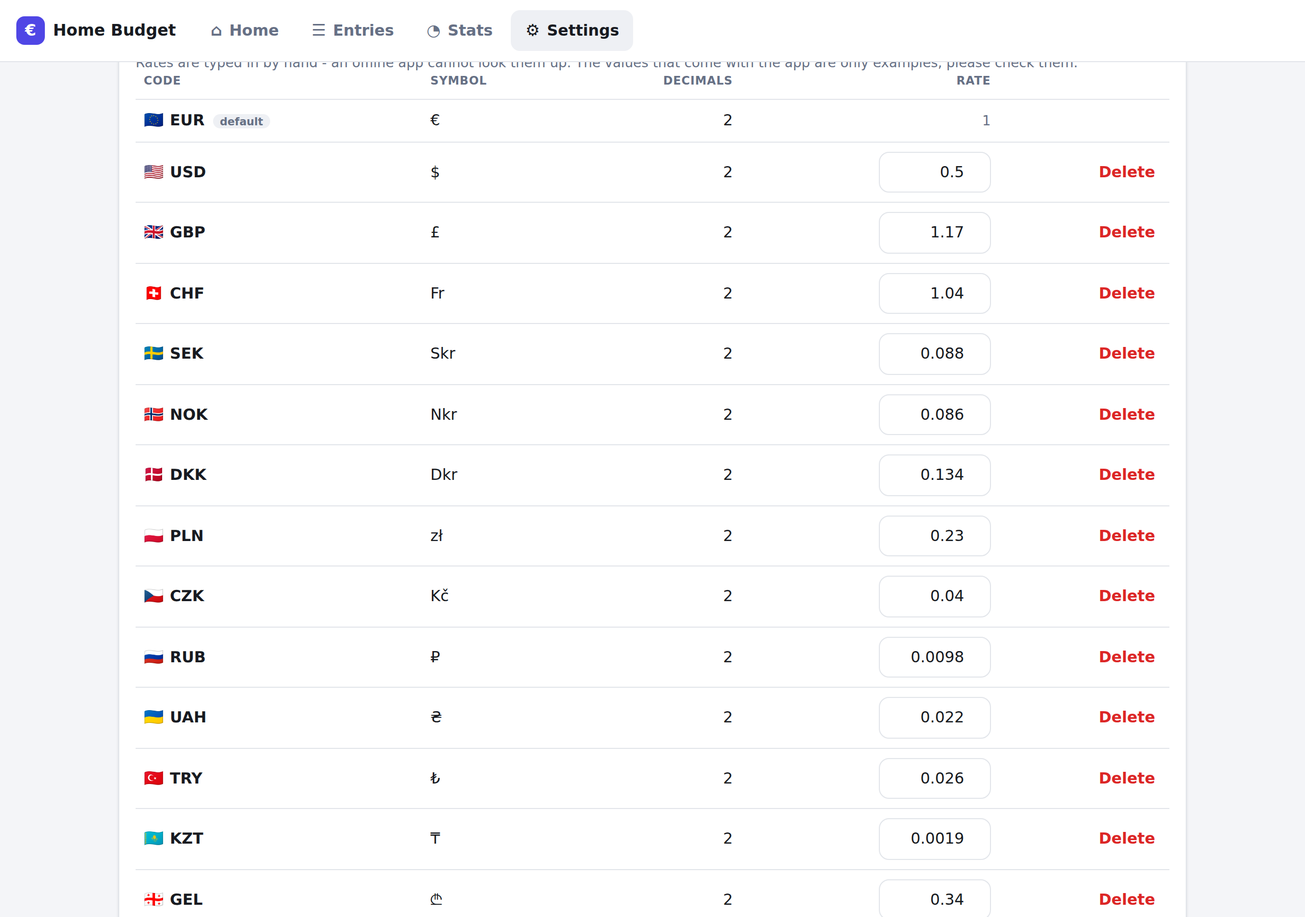
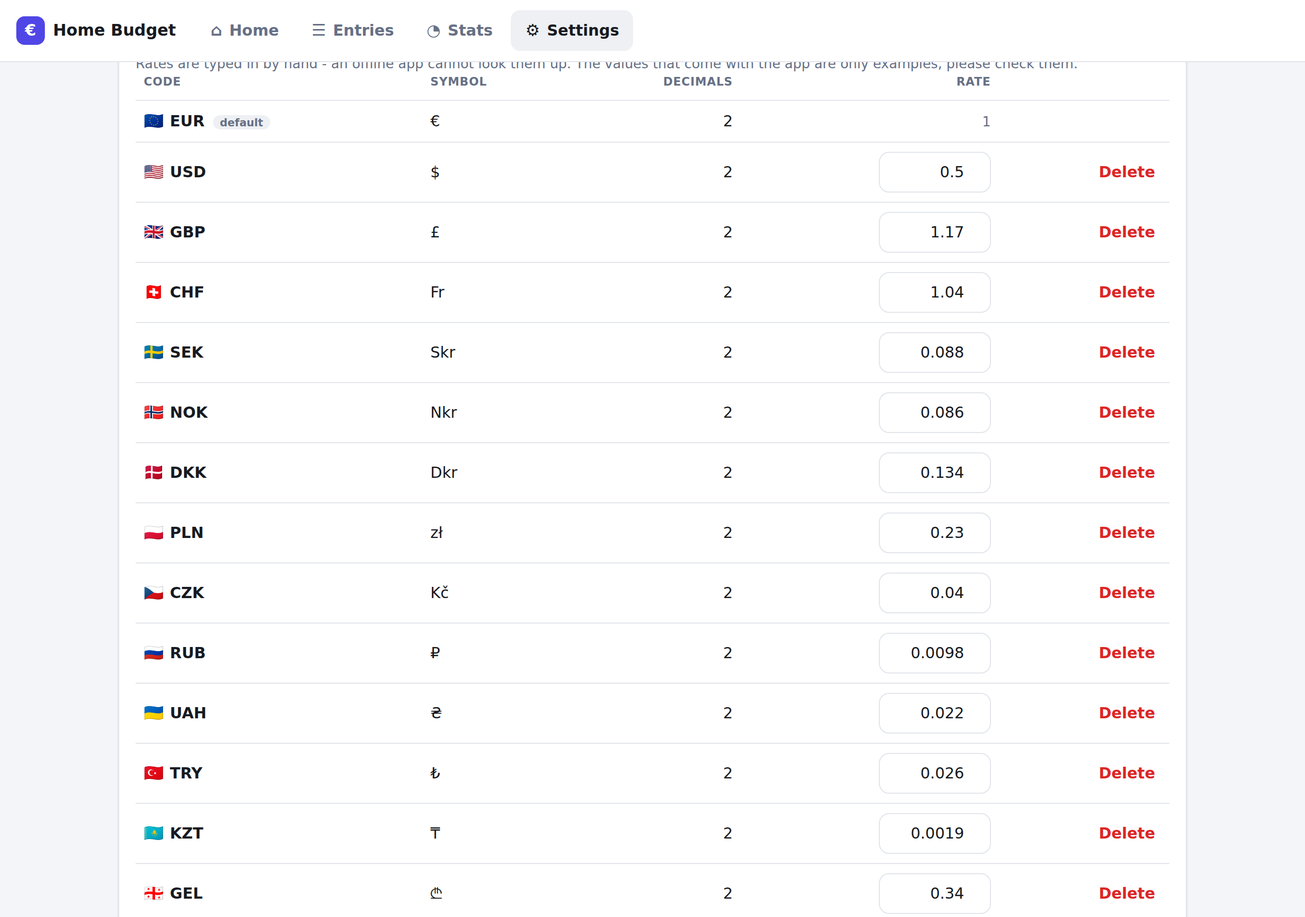
version 3.2.1

diff --git a/site/index.html b/site/index.html
@@ -6,10 +6,10 @@
 <meta name="color-scheme" content="light dark">
 <meta name="description" content="Offline home budget: entries, categories, statistics, CSV/XLSX/PDF export and import.">
 <meta name="application-name" content="Home Budget">
-<meta name="application-version" content="3.2.0">
-<meta name="generator" content="Home Budget 3.2.0">
+<meta name="application-version" content="3.2.1">
+<meta name="generator" content="Home Budget 3.2.1">
 <meta name="robots" content="index, follow">
-<title>Home Budget 3.2.0</title>
+<title>Home Budget 3.2.1</title>
 
 <!-- The file never changes once it is built: its name carries the version, so any
      copy of it can be kept forever. Servers should send the same rule as a header;
@@ -38,13 +38,13 @@ if ('serviceWorker' in navigator) {
   addEventListener('load', () => navigator.serviceWorker.register('sw.js').catch(() => {}));
 }
 </script>
-<style>/*! Home Budget 3.2.0 */
-:root{--bg:#f4f5f8;--surface:#ffffff;--surface-2:#eef0f4;--border:#e2e5ea;--text:#171a21;--muted:#667085;--accent:#4f46e5;--accent-text:#ffffff;--income:#15803d;--expense:#c2410c;--danger:#dc2626;--warn:#b45309;--bar-expense:#f97316;--bar-income:#22c55e;--radius:14px;--shadow:0 1px 2px rgba(16,24,40,.06),0 1px 3px rgba(16,24,40,.06);color-scheme:light}body.dark{--bg:#0f1116;--surface:#171a21;--surface-2:#1f232c;--border:#2a2f3a;--text:#e7e9ee;--muted:#98a2b3;--accent:#818cf8;--accent-text:#0f1116;--income:#4ade80;--expense:#fb923c;--danger:#f87171;--warn:#fbbf24;--shadow:none;color-scheme:dark}*{box-sizing:border-box}html,body{margin:0;padding:0;background:var(--bg);color:var(--text);font:15px/1.5 system-ui,-apple-system,"Segoe UI",Roboto,sans-serif;-webkit-text-size-adjust:100%}h1,h2,h3{margin:0;font-size:1rem}h2{font-size:1.05rem}p{margin:0}button,input,select{font:inherit;color:inherit}.muted{color:var(--muted);font-size:.88rem}.block{display:block}.num{text-align:right;font-variant-numeric:tabular-nums;white-space:nowrap}.income{color:var(--income)}.expense{color:var(--expense)}.error{color:var(--danger);margin-top:6px}.warning{color:var(--warn)}.spacer{flex:1}.app-bar{position:sticky;top:0;z-index:20;display:flex;align-items:center;gap:20px;padding:10px 16px;background:var(--surface);border-bottom:1px solid var(--border)}.brand{display:flex;align-items:center;gap:8px;font-size:1.05rem}.logo{display:grid;place-items:center;width:28px;height:28px;border-radius:8px;background:var(--accent);color:var(--accent-text);font-weight:700}.tabs{display:flex;gap:4px}.tab{display:flex;align-items:center;gap:7px;padding:8px 14px;border:0;border-radius:9px;background:transparent;color:var(--muted);font-weight:600;cursor:pointer}.tab:hover{background:var(--surface-2);color:var(--text)}.tab.active{background:var(--surface-2);color:var(--text)}.tab-icon{font-size:1.05rem}.main{max-width:1080px;margin:0 auto;padding:18px 16px 40px;display:flex;flex-direction:column;gap:16px}.app-footer{padding:0 16px 28px;text-align:center;color:var(--muted);font-size:.8rem}.toast{max-width:1080px;margin:12px auto -4px;padding:10px 14px;border-radius:10px;background:color-mix(in srgb,var(--income) 14%,transparent);color:var(--income);font-weight:600}.toast.error{background:color-mix(in srgb,var(--danger) 14%,transparent);color:var(--danger)}.card{background:var(--surface);border:1px solid var(--border);border-radius:var(--radius);box-shadow:var(--shadow);padding:16px}.card-head{display:flex;align-items:center;justify-content:space-between;gap:12px;margin-bottom:12px;flex-wrap:wrap}.cards{display:grid;grid-template-columns:repeat(auto-fit,minmax(160px,1fr));gap:12px}.grid{display:grid;grid-template-columns:1.3fr 1fr;gap:16px}.stat{display:flex;flex-direction:column;gap:2px}.stat-title{color:var(--muted);font-weight:600;font-size:.85rem}.stat-value{font-size:1.45rem;font-variant-numeric:tabular-nums}.stat-sub{color:var(--muted);font-size:.78rem}.quick-card{padding-bottom:12px}.quick-form{display:flex;gap:10px;align-items:stretch}.quick-input-wrap{position:relative;flex:1}.quick-input{width:100%;padding:14px 44px 14px 14px;font-size:1.5rem;font-variant-numeric:tabular-nums;border:1px solid var(--border);border-radius:12px;background:var(--surface-2)}.quick-currency{position:absolute;right:14px;top:50%;transform:translateY(-50%);color:var(--muted);font-size:1.1rem}.quick-message{margin-top:8px;font-size:.88rem;min-height:1.2em;color:var(--muted)}.quick-message.ok{color:var(--income)}.quick-message.error{color:var(--danger)}button{padding:9px 14px;border:1px solid var(--border);border-radius:10px;background:var(--surface);font-weight:600;cursor:pointer}button:hover{background:var(--surface-2)}button:disabled{opacity:.5;cursor:not-allowed}button.primary{background:var(--accent);border-color:var(--accent);color:var(--accent-text)}button.primary:hover{filter:brightness(1.08)}button.danger{color:var(--danger)}button.link{border:0;background:none;padding:4px 6px;color:var(--accent);font-weight:600}button.link.danger{color:var(--danger)}.button-row{display:flex;flex-wrap:wrap;gap:8px;align-items:center}.file-button{display:inline-flex;align-items:center;padding:9px 14px;border:1px solid var(--border);border-radius:10px;font-weight:600;cursor:pointer;background:var(--surface)}.segmented{display:inline-flex;border:1px solid var(--border);border-radius:10px;overflow:hidden}.segmented button{border:0;border-radius:0;background:var(--surface);padding:7px 12px;color:var(--muted)}.segmented button.active{background:var(--surface-2);color:var(--text)}input,select{padding:8px 10px;border:1px solid var(--border);border-radius:10px;background:var(--surface);max-width:100%}input[type="color"]{padding:2px;width:48px;height:36px}input:focus-visible,select:focus-visible,button:focus-visible{outline:2px solid var(--accent);outline-offset:1px}.field{display:flex;flex-direction:column;gap:4px}.field-label{color:var(--muted);font-size:.8rem;font-weight:600}.field-hint{color:var(--muted);font-size:.75rem}.filters{display:flex;flex-wrap:wrap;gap:12px;align-items:flex-end}.filters-box{margin-bottom:4px}.filters-box>summary{cursor:pointer;color:var(--muted);font-weight:600;font-size:.85rem;padding:4px 0}.filters-box[open]>summary{margin-bottom:8px}.entry-row{cursor:pointer}.filter-actions{display:flex;gap:8px}.inline-form{display:flex;flex-wrap:wrap;gap:34px 10px;align-items:flex-end;margin-top:12px;padding-bottom:14px}.inline-form .field{position:relative}.inline-form .field.has-hint{min-width:160px}.inline-form .field-hint{position:absolute;top:calc(100% + 3px);left:0;width:100%;line-height:1.25}.summary{display:flex;flex-wrap:wrap;gap:16px;margin:12px 0;font-size:.9rem;font-weight:600}.table-wrap{overflow-x:auto}table{width:100%;border-collapse:collapse}th{text-align:left;font-size:.75rem;text-transform:uppercase;letter-spacing:.04em;color:var(--muted);padding:0 8px 8px;border-bottom:1px solid var(--border)}th.num{text-align:right}td{padding:9px 8px;border-bottom:1px solid var(--border);vertical-align:middle}tbody tr:hover{background:var(--surface-2)}tbody tr:last-child td{border-bottom:0}.row-actions{white-space:nowrap;text-align:right}.category-icon{font-size:1.05em;margin-right:7px;line-height:1}.currency-flag{font-size:1.05em;margin-right:6px;line-height:1}.legend-icon{font-size:1em}.small{font-size:.78rem}.row-2{display:grid;grid-template-columns:auto 1fr;gap:12px;align-items:end}.icon-input{width:64px;font-size:1.2rem;text-align:center}.rate-input{width:110px;text-align:right}.converted-note{margin-top:-6px}.app-version{opacity:.8}.icon-picker{display:flex;flex-wrap:wrap;gap:4px}.icon-choice{padding:4px 7px;font-size:1.05rem;border-radius:8px}.card-summary{font-weight:700;font-size:1.05rem;cursor:pointer}.translation-table{max-height:320px;overflow:auto}.translation-table input{width:100%}.fill.over{background:var(--danger) !important}.badge.over{background:color-mix(in srgb,var(--danger) 16%,transparent);color:var(--danger)}.dot{display:inline-block;width:10px;height:10px;margin-right:8px;border-radius:50%;vertical-align:baseline}.badge{margin-left:8px;padding:1px 7px;border-radius:99px;background:var(--surface-2);color:var(--muted);font-size:.7rem;font-weight:700}.chips{display:flex;flex-wrap:wrap;gap:8px;margin:0;padding:0;list-style:none}.chip{display:inline-flex;align-items:center;gap:4px;padding:6px 10px;border:1px solid var(--border);border-radius:99px;background:var(--surface-2)}.entry-list{list-style:none;margin:0;padding:0;display:flex;flex-direction:column}.entry{display:flex;align-items:center;gap:10px;padding:10px 4px;border-bottom:1px solid var(--border);cursor:pointer}.entry:last-child{border-bottom:0}.entry:hover{background:var(--surface-2)}.entry-main{display:flex;flex-direction:column;flex:1;min-width:0}.entry-title{font-weight:600;overflow:hidden;text-overflow:ellipsis;white-space:nowrap}.entry-sub{color:var(--muted);font-size:.8rem}.entry-amount{font-weight:700;font-variant-numeric:tabular-nums}.facts{margin:0;padding-left:18px;color:var(--muted);display:flex;flex-direction:column;gap:6px}.bar-list{list-style:none;margin:0;padding:0;display:flex;flex-direction:column;gap:12px}.bar-head{display:flex;justify-content:space-between;gap:10px;font-size:.9rem;margin-bottom:5px}.track{height:8px;border-radius:99px;background:var(--surface-2);overflow:hidden}.fill{height:100%;border-radius:99px}.chart-box{width:100%;height:220px}.chart-box.tall{height:280px}.chart{width:100%;height:100%;display:block}.bar-expense{fill:var(--bar-expense)}.bar-income{fill:var(--bar-income)}.grid{stroke:var(--border);stroke-width:1}svg .grid{fill:none}.chart-label{fill:var(--muted);font-size:10px}.donut-empty{fill:none;stroke:var(--surface-2);stroke-width:26}.donut-box{display:flex;gap:14px;align-items:center;flex-wrap:wrap}.donut{width:160px;height:160px;flex:none}.legend{display:flex;gap:14px;margin-top:8px;color:var(--muted);font-size:.8rem;align-items:center}.toggle{display:inline-flex;align-items:center;gap:5px;cursor:pointer}.toggle input{width:14px;height:14px}.chart-scale{fill:var(--muted);font-size:10px}.average-line{stroke:var(--accent);stroke-width:1.5;stroke-dasharray:5 4}.average-label{fill:var(--accent);font-size:10px;font-weight:600}.key::before{content:"";display:inline-block;width:10px;height:10px;margin-right:6px;border-radius:3px;background:var(--bar-expense)}.key.income::before{background:var(--bar-income)}.legend-list{list-style:none;margin:0;padding:0;flex:1;min-width:160px}.legend-list li{display:flex;align-items:center;gap:6px;padding:3px 0;font-size:.88rem}.legend-name{flex:1;overflow:hidden;text-overflow:ellipsis;white-space:nowrap}.legend-value{color:var(--muted);font-variant-numeric:tabular-nums}.transfer{display:grid;grid-template-columns:1fr 1fr;gap:16px}.transfer-block{display:flex;flex-direction:column;gap:8px}.transfer-block h3{font-size:.95rem}.import-preview{margin-top:16px;padding-top:16px;border-top:1px solid var(--border);display:flex;flex-direction:column;gap:10px}.dialog{width:min(440px,calc(100vw - 32px));border:1px solid var(--border);border-radius:var(--radius);background:var(--surface);color:var(--text);padding:16px}.dialog::backdrop{background:rgba(15,17,22,.45)}.dialog-head{display:flex;justify-content:space-between;align-items:center;margin-bottom:12px}.dialog-form{display:flex;flex-direction:column;gap:12px}.dialog-actions{display:flex;gap:8px;align-items:center;margin-top:4px}@media (max-width:720px){body[data-mode="auto"] .tab-label{display:none}body[data-mode="auto"] .grid,body[data-mode="auto"] .transfer{grid-template-columns:1fr}body[data-mode="auto"] .app-bar{gap:10px}body[data-mode="auto"] .hide-sm,body[data-mode="auto"] .row-actions{display:none}body[data-mode="auto"] .main{padding:14px 12px 32px}}body[data-mode="mobile"] .tab-label{display:none}body[data-mode="mobile"] .grid,body[data-mode="mobile"] .transfer{grid-template-columns:1fr}body[data-mode="mobile"] .hide-sm,body[data-mode="mobile"] .row-actions{display:none}body[data-mode="mobile"] .main{max-width:560px;padding:14px 12px 32px}body[data-mode="mobile"] .cards{grid-template-columns:repeat(2,1fr)}body[data-mode="mobile"] .app-bar{position:sticky}body[data-mode="mobile"] .tabs{flex:1;justify-content:space-around}body[data-mode="desktop"] .main{max-width:1080px}body[data-mode="desktop"] .grid{grid-template-columns:1.3fr 1fr}</style>
+<style>/*! Home Budget 3.2.1 */
+:root{--bg:#f4f5f8;--surface:#ffffff;--surface-2:#eef0f4;--border:#e2e5ea;--text:#171a21;--muted:#667085;--accent:#4f46e5;--accent-text:#ffffff;--income:#15803d;--expense:#c2410c;--danger:#dc2626;--warn:#b45309;--bar-expense:#f97316;--bar-income:#22c55e;--radius:14px;--control-height:40px;--label-height:18px;--shadow:0 1px 2px rgba(16,24,40,.06),0 1px 3px rgba(16,24,40,.06);color-scheme:light}body.dark{--bg:#0f1116;--surface:#171a21;--surface-2:#1f232c;--border:#2a2f3a;--text:#e7e9ee;--muted:#98a2b3;--accent:#818cf8;--accent-text:#0f1116;--income:#4ade80;--expense:#fb923c;--danger:#f87171;--warn:#fbbf24;--shadow:none;color-scheme:dark}*{box-sizing:border-box}html,body{margin:0;padding:0;background:var(--bg);color:var(--text);font:15px/1.5 system-ui,-apple-system,"Segoe UI",Roboto,sans-serif;-webkit-text-size-adjust:100%}h1,h2,h3{margin:0;font-size:1rem}h2{font-size:1.05rem}p{margin:0}button,input,select{font:inherit;color:inherit}.muted{color:var(--muted);font-size:.88rem}.block{display:block}.num{text-align:right;font-variant-numeric:tabular-nums;white-space:nowrap}.income{color:var(--income)}.expense{color:var(--expense)}.error{color:var(--danger);margin-top:6px}.warning{color:var(--warn)}.spacer{flex:1}.app-bar{position:sticky;top:0;z-index:20;display:flex;align-items:center;gap:20px;padding:10px 16px;background:var(--surface);border-bottom:1px solid var(--border)}.brand{display:flex;align-items:center;gap:8px;font-size:1.05rem}.logo{display:grid;place-items:center;width:28px;height:28px;border-radius:8px;background:var(--accent);color:var(--accent-text);font-weight:700}.tabs{display:flex;gap:4px}.tab{display:flex;align-items:center;gap:7px;padding:8px 14px;border:0;border-radius:9px;background:transparent;color:var(--muted);font-weight:600;cursor:pointer}.tab:hover{background:var(--surface-2);color:var(--text)}.tab.active{background:var(--surface-2);color:var(--text)}.tab-icon{font-size:1.05rem}.main{max-width:1080px;margin:0 auto;padding:18px 16px 40px;display:flex;flex-direction:column;gap:16px}.app-footer{padding:0 16px 28px;text-align:center;color:var(--muted);font-size:.8rem}.toast{max-width:1080px;margin:12px auto -4px;padding:10px 14px;border-radius:10px;background:color-mix(in srgb,var(--income) 14%,transparent);color:var(--income);font-weight:600}.toast.error{background:color-mix(in srgb,var(--danger) 14%,transparent);color:var(--danger)}.card{background:var(--surface);border:1px solid var(--border);border-radius:var(--radius);box-shadow:var(--shadow);padding:16px}.card-head{display:flex;align-items:center;justify-content:space-between;gap:12px;margin-bottom:12px;flex-wrap:wrap}.cards{display:grid;grid-template-columns:repeat(auto-fit,minmax(160px,1fr));gap:12px}.grid{display:grid;grid-template-columns:1.3fr 1fr;gap:16px}.stat{display:flex;flex-direction:column;gap:2px}.stat-title{color:var(--muted);font-weight:600;font-size:.85rem}.stat-value{font-size:1.45rem;font-variant-numeric:tabular-nums}.stat-sub{color:var(--muted);font-size:.78rem}.quick-card{padding-bottom:12px}.quick-form{display:flex;gap:10px;align-items:stretch}.quick-input-wrap{position:relative;flex:1}.quick-input{width:100%;height:auto;padding:14px 44px 14px 14px;font-size:1.5rem;font-variant-numeric:tabular-nums;border:1px solid var(--border);border-radius:12px;background:var(--surface-2)}.quick-currency{position:absolute;right:14px;top:50%;transform:translateY(-50%);color:var(--muted);font-size:1.1rem}.quick-message{margin-top:8px;font-size:.88rem;min-height:1.2em;color:var(--muted)}.quick-message.ok{color:var(--income)}.quick-message.error{color:var(--danger)}button{padding:9px 14px;border:1px solid var(--border);border-radius:10px;background:var(--surface);font-weight:600;cursor:pointer}button:hover{background:var(--surface-2)}button:disabled{opacity:.5;cursor:not-allowed}button.primary{background:var(--accent);border-color:var(--accent);color:var(--accent-text)}button.primary:hover{filter:brightness(1.08)}button.danger{color:var(--danger)}button.link{border:0;background:none;padding:4px 6px;color:var(--accent);font-weight:600}button.link.danger{color:var(--danger)}.button-row{display:flex;flex-wrap:wrap;gap:8px;align-items:center}.file-button{display:inline-flex;align-items:center;padding:9px 14px;border:1px solid var(--border);border-radius:10px;font-weight:600;cursor:pointer;background:var(--surface)}.segmented{display:inline-flex;border:1px solid var(--border);border-radius:10px;overflow:hidden}.segmented button{border:0;border-radius:0;background:var(--surface);padding:7px 12px;color:var(--muted)}.segmented button.active{background:var(--surface-2);color:var(--text)}input,select{box-sizing:border-box;height:var(--control-height);padding:8px 10px;border:1px solid var(--border);border-radius:10px;background:var(--surface);max-width:100%}input[type="checkbox"],input[type="radio"]{height:auto}input[type="color"]{padding:2px;width:48px}input:focus-visible,select:focus-visible,button:focus-visible{outline:2px solid var(--accent);outline-offset:1px}.field{display:flex;flex-direction:column;gap:4px}.field-label{color:var(--muted);font-size:.8rem;font-weight:600;min-height:var(--label-height);line-height:var(--label-height)}.field-hint{color:var(--muted);font-size:.75rem;line-height:1.3;max-width:240px}.filters{display:flex;flex-wrap:wrap;gap:12px;align-items:start}.filters-box{margin-bottom:4px}.filters-box>summary{cursor:pointer;color:var(--muted);font-weight:600;font-size:.85rem;padding:4px 0}.filters-box[open]>summary{margin-bottom:8px}.entry-row{cursor:pointer}.filter-actions{display:flex;gap:8px;margin-top:calc(var(--label-height) + 4px)}.inline-form{display:flex;flex-wrap:wrap;gap:12px 10px;align-items:start;margin-top:12px}.inline-form>button{margin-top:calc(var(--label-height) + 4px)}.inline-form>button,.filters button,.button-row>button,.file-button{height:var(--control-height)}.summary{display:flex;flex-wrap:wrap;gap:16px;margin:12px 0;font-size:.9rem;font-weight:600}.table-wrap{overflow-x:auto}table{width:100%;border-collapse:collapse}th{text-align:left;font-size:.75rem;text-transform:uppercase;letter-spacing:.04em;color:var(--muted);padding:0 8px 8px;border-bottom:1px solid var(--border)}th.num{text-align:right}td{padding:9px 8px;border-bottom:1px solid var(--border);vertical-align:middle}tbody tr:hover{background:var(--surface-2)}tbody tr:last-child td{border-bottom:0}.row-actions{white-space:nowrap;text-align:right}.category-icon{font-size:1.05em;margin-right:7px;line-height:1}.currency-flag{font-size:1.05em;margin-right:6px;line-height:1}.legend-icon{font-size:1em}.small{font-size:.78rem}.row-2{display:grid;grid-template-columns:auto 1fr;gap:12px;align-items:start}.icon-input{width:64px;font-size:1.2rem;text-align:center}.rate-input{width:110px;text-align:right}.converted-note{margin-top:-6px}.app-version{opacity:.8}.icon-picker{display:flex;flex-wrap:wrap;gap:4px}.icon-choice{padding:4px 7px;font-size:1.05rem;border-radius:8px}.card-summary{font-weight:700;font-size:1.05rem;cursor:pointer}.translation-table{max-height:320px;overflow:auto}.translation-table input{width:100%}.fill.over{background:var(--danger) !important}.badge.over{background:color-mix(in srgb,var(--danger) 16%,transparent);color:var(--danger)}.dot{display:inline-block;width:10px;height:10px;margin-right:8px;border-radius:50%;vertical-align:baseline}.badge{margin-left:8px;padding:1px 7px;border-radius:99px;background:var(--surface-2);color:var(--muted);font-size:.7rem;font-weight:700}.chips{display:flex;flex-wrap:wrap;gap:8px;margin:0;padding:0;list-style:none}.chip{display:inline-flex;align-items:center;gap:4px;padding:6px 10px;border:1px solid var(--border);border-radius:99px;background:var(--surface-2)}.entry-list{list-style:none;margin:0;padding:0;display:flex;flex-direction:column}.entry{display:flex;align-items:center;gap:10px;padding:10px 4px;border-bottom:1px solid var(--border);cursor:pointer}.entry:last-child{border-bottom:0}.entry:hover{background:var(--surface-2)}.entry-main{display:flex;flex-direction:column;flex:1;min-width:0}.entry-title{font-weight:600;overflow:hidden;text-overflow:ellipsis;white-space:nowrap}.entry-sub{color:var(--muted);font-size:.8rem}.entry-amount{font-weight:700;font-variant-numeric:tabular-nums}.facts{margin:0;padding-left:18px;color:var(--muted);display:flex;flex-direction:column;gap:6px}.bar-list{list-style:none;margin:0;padding:0;display:flex;flex-direction:column;gap:12px}.bar-head{display:flex;justify-content:space-between;gap:10px;font-size:.9rem;margin-bottom:5px}.track{height:8px;border-radius:99px;background:var(--surface-2);overflow:hidden}.fill{height:100%;border-radius:99px}.chart-box{width:100%;height:220px}.chart-box.tall{height:280px}.chart{width:100%;height:100%;display:block}.bar-expense{fill:var(--bar-expense)}.bar-income{fill:var(--bar-income)}.grid{stroke:var(--border);stroke-width:1}svg .grid{fill:none}.chart-label{fill:var(--muted);font-size:10px}.donut-empty{fill:none;stroke:var(--surface-2);stroke-width:26}.donut-box{display:flex;gap:14px;align-items:center;flex-wrap:wrap}.donut{width:160px;height:160px;flex:none}.legend{display:flex;gap:14px;margin-top:8px;color:var(--muted);font-size:.8rem;align-items:center}.toggle{display:inline-flex;align-items:center;gap:5px;cursor:pointer}.toggle input{width:14px;height:14px}.chart-scale{fill:var(--muted);font-size:10px}.average-line{stroke:var(--accent);stroke-width:1.5;stroke-dasharray:5 4}.average-label{fill:var(--accent);font-size:10px;font-weight:600}.key::before{content:"";display:inline-block;width:10px;height:10px;margin-right:6px;border-radius:3px;background:var(--bar-expense)}.key.income::before{background:var(--bar-income)}.legend-list{list-style:none;margin:0;padding:0;flex:1;min-width:160px}.legend-list li{display:flex;align-items:center;gap:6px;padding:3px 0;font-size:.88rem}.legend-name{flex:1;overflow:hidden;text-overflow:ellipsis;white-space:nowrap}.legend-value{color:var(--muted);font-variant-numeric:tabular-nums}.transfer{display:grid;grid-template-columns:1fr 1fr;gap:16px}.transfer-block{display:flex;flex-direction:column;gap:8px}.transfer-block h3{font-size:.95rem}.import-preview{margin-top:16px;padding-top:16px;border-top:1px solid var(--border);display:flex;flex-direction:column;gap:10px}.dialog{width:min(440px,calc(100vw - 32px));border:1px solid var(--border);border-radius:var(--radius);background:var(--surface);color:var(--text);padding:16px}.dialog::backdrop{background:rgba(15,17,22,.45)}.dialog-head{display:flex;justify-content:space-between;align-items:center;margin-bottom:12px}.dialog-form{display:flex;flex-direction:column;gap:12px}.dialog-actions{display:flex;gap:8px;align-items:center;margin-top:4px}@media (max-width:720px){body[data-mode="auto"] .tab-label{display:none}body[data-mode="auto"] .grid,body[data-mode="auto"] .transfer{grid-template-columns:1fr}body[data-mode="auto"] .app-bar{gap:10px}body[data-mode="auto"] .hide-sm,body[data-mode="auto"] .row-actions{display:none}body[data-mode="auto"] .main{padding:14px 12px 32px}}body[data-mode="mobile"] .tab-label{display:none}body[data-mode="mobile"] .grid,body[data-mode="mobile"] .transfer{grid-template-columns:1fr}body[data-mode="mobile"] .hide-sm,body[data-mode="mobile"] .row-actions{display:none}body[data-mode="mobile"] .main{max-width:560px;padding:14px 12px 32px}body[data-mode="mobile"] .cards{grid-template-columns:repeat(2,1fr)}body[data-mode="mobile"] .app-bar{position:sticky}body[data-mode="mobile"] .tabs{flex:1;justify-content:space-around}body[data-mode="desktop"] .main{max-width:1080px}body[data-mode="desktop"] .grid{grid-template-columns:1.3fr 1fr}</style>
 </head>
 <body data-mode="auto">
 <div id="app"></div>
 <noscript>This app needs JavaScript. Everything runs locally in your browser; nothing is sent anywhere.</noscript>
-<script>/*! Home Budget 3.2.0 - offline single file build, https://github.com/ (no dependencies) */
+<script>/*! Home Budget 3.2.1 - offline single file build, https://github.com/ (no dependencies) */
 (function () {
 'use strict';
 const __cache = {};
@@ -987,7 +987,7 @@ return `${day}.${month}.${year}`;
 return { formatMoney, toPlainAmount, parseAmount, todayIso, toIsoDate, isIsoDate, parseDateLoose, addDays, addMonths, startOfWeek, isoWeek, periodKey, periodStart, periodEnd, previousPeriodStart, periodLabel, formatDate, GROUP_SEPARATOR, PERIODS, MONTH_NAMES, PERIOD_TEXTS };
 };
 __modules["core/version.js"] = function () {
-const APP_VERSION = '3.2.0';
+const APP_VERSION = '3.2.1';
 const DATA_VERSION = 3;
 return { APP_VERSION, DATA_VERSION };
 };

diff --git a/src/app.css b/src/app.css
@@ -16,6 +16,10 @@
   --bar-expense: #f97316;
   --bar-income: #22c55e;
   --radius: 14px;
+  /* Every control in a form row is exactly this tall, and every field label exactly
+     that high, so controls next to each other always sit on the same line. */
+  --control-height: 40px;
+  --label-height: 18px;
   --shadow: 0 1px 2px rgba(16, 24, 40, .06), 0 1px 3px rgba(16, 24, 40, .06);
   color-scheme: light;
 }
@@ -163,6 +167,7 @@ button, input, select { font: inherit; color: inherit; }
 .quick-input-wrap { position: relative; flex: 1; }
 .quick-input {
   width: 100%;
+  height: auto; /* the quick amount field is deliberately bigger than a form control */
   padding: 14px 44px 14px 14px;
   font-size: 1.5rem;
   font-variant-numeric: tabular-nums;
@@ -220,34 +225,41 @@ button.link.danger { color: var(--danger); }
 .segmented button.active { background: var(--surface-2); color: var(--text); }
 
 input, select {
+  box-sizing: border-box;
+  height: var(--control-height);
   padding: 8px 10px;
   border: 1px solid var(--border);
   border-radius: 10px;
   background: var(--surface);
   max-width: 100%;
 }
-input[type="color"] { padding: 2px; width: 48px; height: 36px; }
+/* Checkboxes keep their own size; only the text-like controls share a height. */
+input[type="checkbox"], input[type="radio"] { height: auto; }
+input[type="color"] { padding: 2px; width: 48px; }
 input:focus-visible, select:focus-visible, button:focus-visible {
   outline: 2px solid var(--accent);
   outline-offset: 1px;
 }
 
 .field { display: flex; flex-direction: column; gap: 4px; }
-.field-label { color: var(--muted); font-size: .8rem; font-weight: 600; }
-.field-hint { color: var(--muted); font-size: .75rem; }
-.filters { display: flex; flex-wrap: wrap; gap: 12px; align-items: flex-end; }
+/* A fixed label height plus top alignment is what keeps a row of fields lined up:
+   a longer label, or a hint under one of them, then moves nothing else. */
+.field-label {
+  color: var(--muted); font-size: .8rem; font-weight: 600;
+  min-height: var(--label-height); line-height: var(--label-height);
+}
+.field-hint { color: var(--muted); font-size: .75rem; line-height: 1.3; max-width: 240px; }
+.filters { display: flex; flex-wrap: wrap; gap: 12px; align-items: start; }
 .filters-box { margin-bottom: 4px; }
 .filters-box > summary { cursor: pointer; color: var(--muted); font-weight: 600; font-size: .85rem; padding: 4px 0; }
 .filters-box[open] > summary { margin-bottom: 8px; }
 .entry-row { cursor: pointer; }
-.filter-actions { display: flex; gap: 8px; }
-.inline-form { display: flex; flex-wrap: wrap; gap: 34px 10px; align-items: flex-end; margin-top: 12px; padding-bottom: 14px; }
-/* A hint hangs below its field instead of growing it: otherwise the field with a
-   hint is taller than its neighbours and the whole row of inputs shifts. The field
-   is given a minimum width so the hint fits underneath without covering its neighbour. */
-.inline-form .field { position: relative; }
-.inline-form .field.has-hint { min-width: 160px; }
-.inline-form .field-hint { position: absolute; top: calc(100% + 3px); left: 0; width: 100%; line-height: 1.25; }
+.filter-actions { display: flex; gap: 8px; margin-top: calc(var(--label-height) + 4px); }
+.inline-form { display: flex; flex-wrap: wrap; gap: 12px 10px; align-items: start; margin-top: 12px; }
+/* The submit button has no label above it, so it is pushed down by exactly one. */
+.inline-form > button { margin-top: calc(var(--label-height) + 4px); }
+/* Buttons that stand in a row with form controls are exactly as tall as they are. */
+.inline-form > button, .filters button, .button-row > button, .file-button { height: var(--control-height); }
 
 /* ---------- lists and tables ---------- */
 .summary { display: flex; flex-wrap: wrap; gap: 16px; margin: 12px 0; font-size: .9rem; font-weight: 600; }
@@ -271,7 +283,7 @@ tbody tr:last-child td { border-bottom: 0; }
 .currency-flag { font-size: 1.05em; margin-right: 6px; line-height: 1; }
 .legend-icon { font-size: 1em; }
 .small { font-size: .78rem; }
-.row-2 { display: grid; grid-template-columns: auto 1fr; gap: 12px; align-items: end; }
+.row-2 { display: grid; grid-template-columns: auto 1fr; gap: 12px; align-items: start; }
 .icon-input { width: 64px; font-size: 1.2rem; text-align: center; }
 .rate-input { width: 110px; text-align: right; }
 .converted-note { margin-top: -6px; }

diff --git a/site/sw.js b/site/sw.js
@@ -1,5 +1,5 @@
-/* Home Budget 3.2.0 - offline cache for the GitHub Pages build. */
-const CACHE = 'home-budget-3.2.0';
+/* Home Budget 3.2.1 - offline cache for the GitHub Pages build. */
+const CACHE = 'home-budget-3.2.1';
 const ASSETS = ["./","./index.html","./manifest.webmanifest","./icon-192.png","./icon-512.png","./icon-maskable-512.png","./apple-touch-icon.png"];
 
 self.addEventListener('install', (event) => {

diff --git a/src/core/version.js b/src/core/version.js
@@ -2,7 +2,7 @@
  * The single place where the application version lives.
  * The build stamps it into the file name, the bundle banner and the page.
  */
-export const APP_VERSION = '3.2.0';
+export const APP_VERSION = '3.2.1';
 
 /** Storage document version; raised when the saved shape changes. */
 export const DATA_VERSION = 3;

diff --git a/README.md b/README.md
@@ -1,4 +1,4 @@
-# Home Budget 3.2.0 (browser version)
+# Home Budget 3.2.1 (browser version)
 
 A home budget app that is **one HTML file**. All JavaScript, CSS and even the PDF font are inlined,
 there are no external requests, no frameworks and no build-time dependencies. Open the file from a
@@ -63,7 +63,7 @@ USB stick, a local folder or an offline laptop and it works. The same file is al
 
 ## Using it
 
-Open `home-budget-3.2.0.html` (or `home-budget.html`, the same build under a name that never changes)
+Open `home-budget-3.2.1.html` (or `home-budget.html`, the same build under a name that never changes)
 in any modern browser - Chrome, Edge, Firefox, Safari. Nothing to install. Amounts are stored as whole
 cents, so no rounding errors creep in. Data saved by an older version is upgraded automatically on first
 start: entries and categories are kept, and anything new (icons, limit periods, currency rates, currency
@@ -92,7 +92,7 @@ file yourself, send that same header.
 
 To publish: enable **Settings → Pages → Source: GitHub Actions** once. `.github/workflows/pages.yml`
 then tests, builds and deploys every push to `main`, and `.github/workflows/release.yml` attaches the
-built files to a release when a tag like `v3.2.0` is pushed.
+built files to a release when a tag like `v3.2.1` is pushed.
 
 ## Building
 
@@ -164,6 +164,12 @@ test/            unit tests (node:test)
 The UI layer only reads from and calls into `core`; `core` has no reference to the DOM, which is why
 it can be tested in Node and why the same logic runs in the export/import code paths.
 
+Form rows follow one rule, which is what keeps controls from drifting out of line: every text-like
+control is exactly `--control-height` tall, every field label exactly `--label-height`, and a row is
+aligned to its **top**. A longer label, a hint underneath or a control the browser sizes differently -
+a colour picker, a select, a date field - then moves nothing else, and a button standing in such a row
+is pushed down by exactly one label height.
+
 ### How the PDF prints Cyrillic
 
 A PDF's built-in fonts only know Latin-1, which is why version 3.0 wrote `?` for every Russian letter.
@@ -189,7 +195,7 @@ labels, deleting entries versus resetting everything, version consistency, trans
 for files with and without headers. The run **fails below 90%** line, branch and function coverage of
 `src/core`; it currently sits at about 99% lines, 95% branches.
 
-`tools/browser-check.mjs` additionally drives the built file in headless Chromium (34 checks): it adds
+`tools/browser-check.mjs` additionally drives the built file in headless Chromium (35 checks): it adds
 an entry through the quick form, checks that it is stored and survives a reload, exports CSV/XLSX/PDF
 and verifies the produced bytes (including the chart parts and the embedded font), exports a Russian
 PDF and asserts it contains real Cyrillic and no question marks, imports a semicolon-separated German
@@ -197,7 +203,9 @@ CSV, switches the interface between English, Russian, German and a user translat
 settings editor, checks the version stamp, the cache and web app metadata, the average line, the budget
 bars with their periods, the ruble, the currency flags and that no two currencies share a symbol,
 confirms that deleting the entries keeps the settings while resetting really restores the defaults,
-and takes the screenshots in this README. It fails if anything logs an error to the console.
+**measures every row of form controls** - in the cards, in the filters and in the dialogs - and fails
+when a label of a different length or a hint under one field pushes its control off the line its
+neighbours sit on, and takes the screenshots in this README. It fails if anything logs an error to the console.
 
 `tools/site-check.mjs` serves `site/` over HTTP, checks the manifest and the icons, waits for the
 service worker to fill its cache, then **switches the network off and reloads** to prove the published
